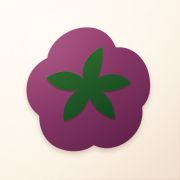
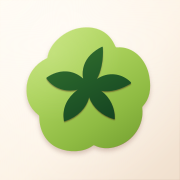
web: the tomato is light green, not purple (owner)

Changed region(s): [[0.1389, 0.1389, 0.8333, 0.8611]]

diff --git a/STATUS.md b/STATUS.md
@@ -65,7 +65,7 @@ and verified locally (commits `cd45004`, `4f5785a`, `c542dbe`) and **deployed on
   `lib/crm-records.mjs`, backups include the new tables.
 - Installable app (2026-09-28, operator request): `web/app/manifest.ts`, a tomato icon
   (`web/app/icon.svg`, `apple-icon.png`, `public/icons/`), iOS web-app metadata. The
-  icon is Pomami's tomato in purple (2026-11-16), drawn by `npx tsx
+  icon is Pomami's tomato in light green (2026-11-16), drawn by `npx tsx
   scripts/brand-icons.ts finder <dir>` in the `pomami` repo. No
   service worker: every page is live data behind sign-in. `proxy.ts` lets the manifest
   and icons through signed out, since browsers fetch them without the session cookie.
